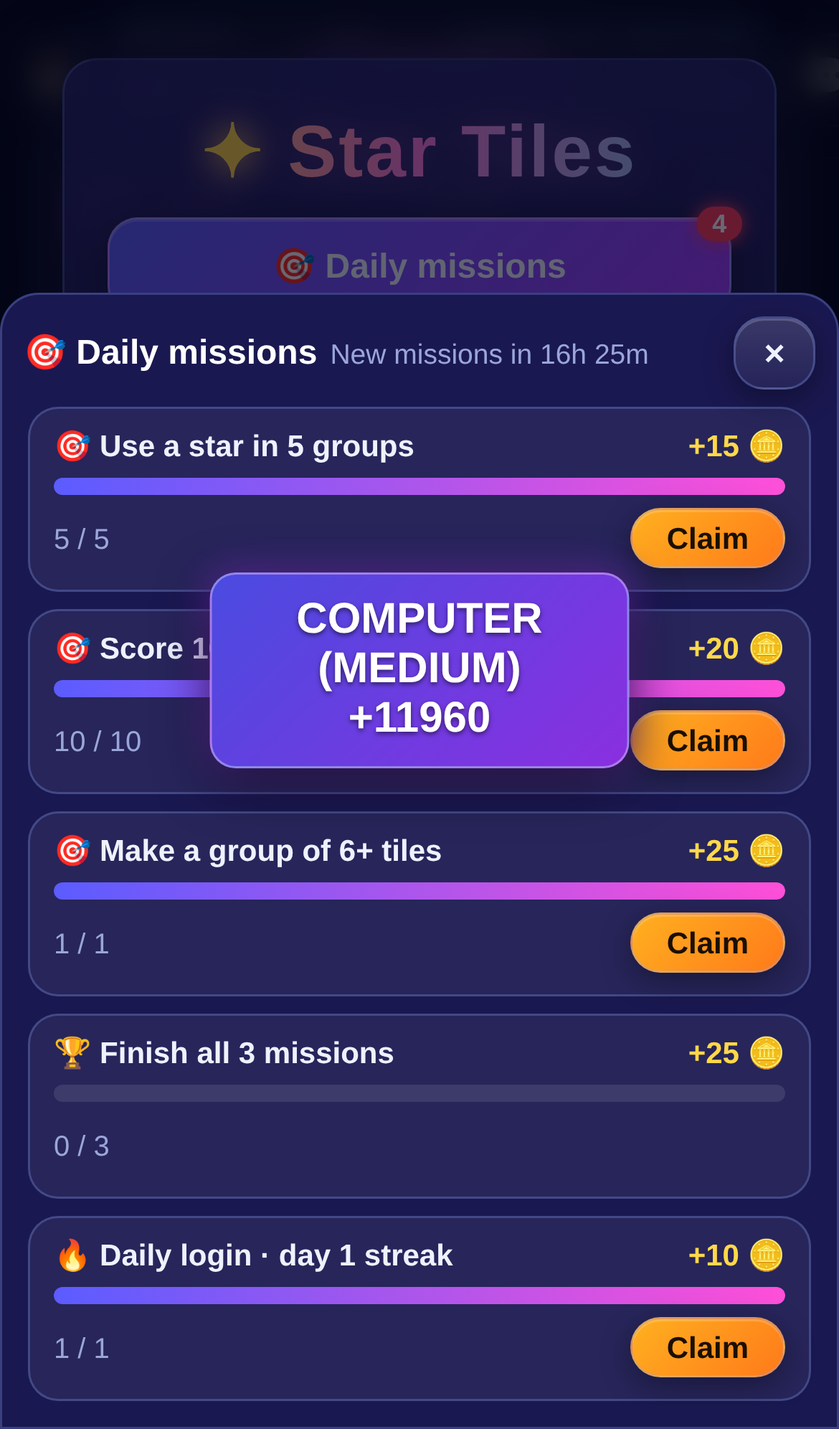
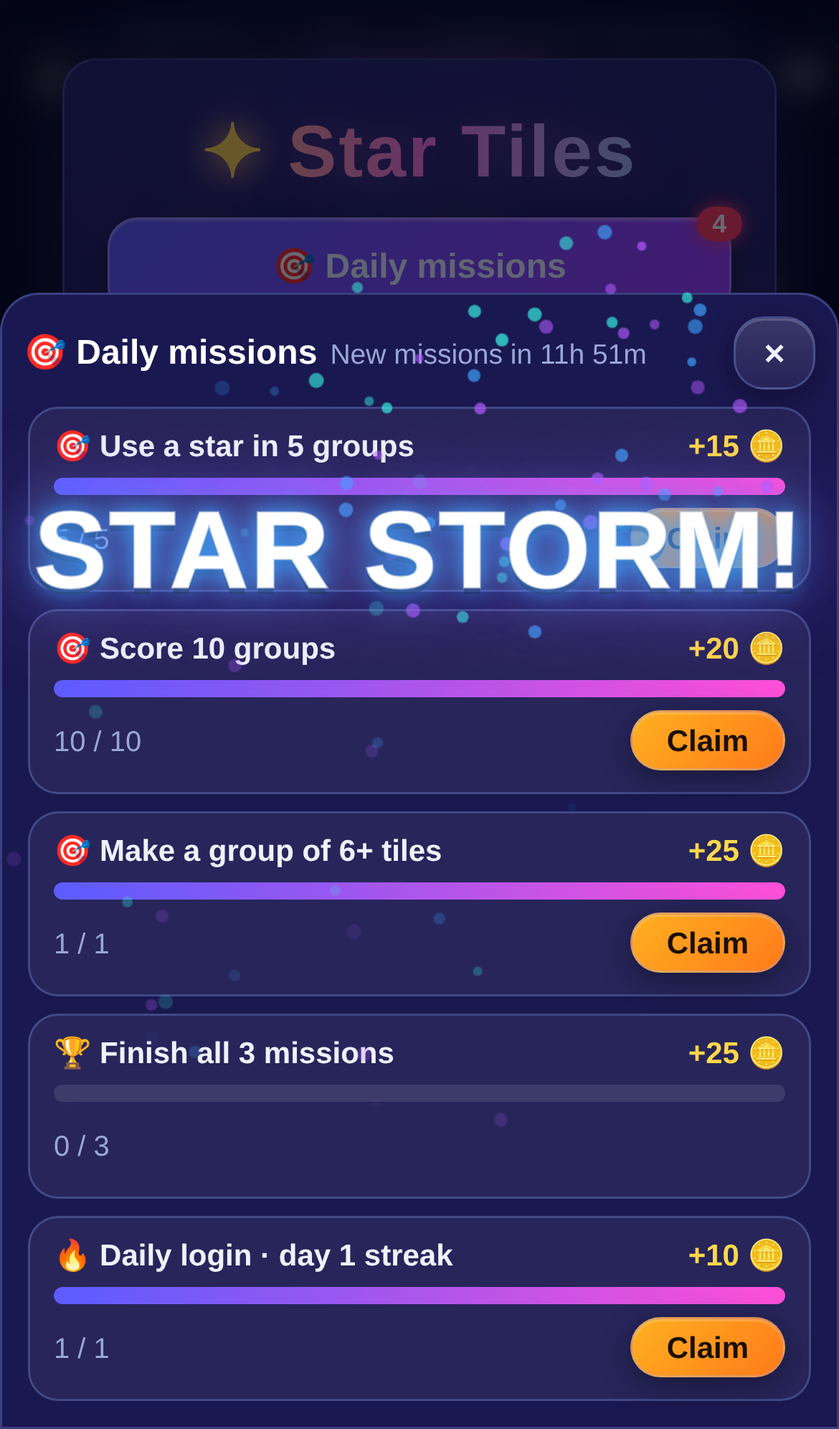
v38: star glow in set colors, step-by-step score show, tiered random celebrations

diff --git a/app.js b/app.js
@@ -1,4 +1,4 @@
-const L=Logic,$=id=>document.getElementById(id);let g,pieces=[],sel=null,boost=false,busy=false,ghost=null,pops=[];
+const L=Logic,$=id=>document.getElementById(id);let tally=null,g,pieces=[],sel=null,boost=false,busy=false,ghost=null,pops=[],popStars=null;
 const toast=document.createElement('div');toast.id='toast';document.body.appendChild(toast);
 function say(t){toast.textContent=t;toast.style.opacity=1;clearTimeout(say.t);say.t=setTimeout(()=>toast.style.opacity=0,1300);}
 // ---- Web Audio synth SFX (no files); unlocked on first tap for iOS ----
@@ -8,7 +8,7 @@ const SFX=(()=>{let ctx=null;const get=()=>{if(!ctx){const C=window.AudioContext
   v.gain.setValueAtTime(0.0001,t);v.gain.exponentialRampToValueAtTime(vol||0.15,t+0.008);v.gain.exponentialRampToValueAtTime(0.0001,t+dur);o.connect(v);v.connect(a.destination);o.start(t);o.stop(t+dur+0.02);}
  function noise(dur,vol,t0,lp){const a=get();if(!a||muted())return;const t=a.currentTime+(t0||0),n=a.sampleRate*dur,buf=a.createBuffer(1,n,a.sampleRate),d=buf.getChannelData(0);for(let i=0;i<n;i++)d[i]=(Math.random()*2-1)*Math.pow(1-i/n,2);
   const s=a.createBufferSource(),f=a.createBiquadFilter(),v=a.createGain();f.type='lowpass';f.frequency.value=lp||1200;v.gain.value=vol||0.4;s.buffer=buf;s.connect(f);f.connect(v);v.connect(a.destination);s.start(t);}
- return {unlock:()=>{const a=get();if(a){const b=a.createBuffer(1,1,22050),s=a.createBufferSource();s.buffer=b;s.connect(a.destination);s.start(0);}},
+ return {tone,noise,unlock:()=>{const a=get();if(a){const b=a.createBuffer(1,1,22050),s=a.createBufferSource();s.buffer=b;s.connect(a.destination);s.start(0);}},
   click:()=>tone(900,0.05,'square',0.06,0,500),rot:()=>tone(650,0.06,'triangle',0.08,0,900),bad:()=>tone(180,0.15,'sawtooth',0.07,0,120),
   pop:i=>{tone(500+i*70,0.09,'sine',0.18,i*0.06,1400+i*90);noise(0.04,0.15,i*0.06,3000);},
   chime:sc=>{const notes=sc>=300?[523,659,784,1047,1319]:sc>=120?[523,659,784,1047]:[659,784,988];notes.forEach((f,i)=>tone(f,0.25,'triangle',0.12,0.12+i*0.08));},
@@ -36,11 +36,11 @@ function firstFree(){const r=g.racks[g.turn];for(let s=0;s<3;s++)if(r[3*s]&&!use
 function tilesAt(s,r,c){return L.pieceTiles(g.racks[g.turn],s,g.orient[g.turn][s],r,c);}
 function render(){setTimeout(fit,0);clearTimeout(render.sv);render.sv=setTimeout(autosave,50);const b=show?show.board:cur(),bd=$('board');bd.innerHTML='';
  const pvTiles=placed().concat(ghost&&ghost.ok?ghost.tiles:[]),pv=L.previewMove(g,pvTiles,boost),willSet=new Set(pv.pops.map(q=>q.r*8+q.c));
- const pe=$('prev');const fx=pv.factor||1;pe.textContent='This move: +'+pv.score+(fx>1?' (⚡x'+fx+')':'');const showPv=human()&&!aim&&(pvTiles.length||boost);pe.className='';const pp=$('potprev');pp.textContent=showPv?'+'+pv.score+(fx>1?' x'+fx:''):'—';pp.className=showPv?(pv.score?'hot':'zero'):'';
+ const pe=$('prev');const fx=pv.factor||1;pe.textContent='This move: +'+pv.score+(fx>1?' (⚡x'+fx+')':'');const showPv=human()&&!aim&&(pvTiles.length||boost);pe.className='';const pp=$('potprev');pp.textContent=showPv?'+'+pv.score+(fx>1?' x'+fx:''):'—';pp.className=showPv?(pv.score?'hot':'zero'):'';if(tally){pp.textContent=tally.txt;pp.className='hot tally';}
  const aimSet=new Set(aim&&aim.r!=null?L.blastCells(aim.type,aim.r,aim.c).map(([y,x])=>y*8+x):[]),fxSet=new Set(blastFx.map(([y,x])=>y*8+x));
  const gk=ghost?new Set(ghost.tiles.map(t=>t.r*8+t.c)):new Set();
  for(let r=0;r<8;r++)for(let c=0;c<8;c++){const d=document.createElement('div'),m=L.mult(r,c);d.className='cell'+(m>1?' m'+m:'');d.dataset.r=r;d.dataset.c=c;const t=b[r][c];
-  if(t){const e=document.createElement('div');if(t.star){e.className='tile star '+(t.fresh?'fresh':t.owner===0?'mine':'theirs');e.innerHTML='<span>⭐</span>'+(t.mult>1&&!t.fresh?'<em>x'+t.mult+'</em>':'');}
+  if(t){const e=document.createElement('div');if(t.star){e.className='tile star '+(t.fresh?'fresh':t.owner===0?'mine':'theirs');{const sc=starGlowAt(r,c,pv,showPv);if(sc)glowStar(e,sc);}e.innerHTML='<span>⭐</span>'+(t.mult>1&&!t.fresh?'<em>x'+t.mult+'</em>':'');}
    else e.className='tile '+t.color+(t.fresh?' fresh':'');d.appendChild(e);d.className='cell';}
   else if(pops.some(q=>q.r===r&&q.c===c)){const q=pops.find(q=>q.r===r&&q.c===c),e=document.createElement('div');e.className='tile pop '+q.color;d.appendChild(e);}
   const pi=pieceAt(r,c);if(pi>=0){const P=pieces[pi];if(P===spinP)d.classList.add('pspin');if(P===shakeP)d.classList.add('pshake');if(P.tiles[1].r===r&&P.tiles[1].c===c&&false){}}
@@ -52,7 +52,7 @@ function render(){setTimeout(fit,0);clearTimeout(render.sv);render.sv=setTimeout
   const disp=L.pieceTiles(rack,s,o,0,0);for(let j=0;j<3;j++){const d=document.createElement('div');d.className='rt';if(!hidden)d.innerHTML=tileHTML(disp[j].color);set.appendChild(d);}
   if(!hidden){const rb=document.createElement('button');rb.className='rot';rb.textContent='↻';rb.dataset.s=s;set.appendChild(rb);}else set.classList.add('empty');
   rk.appendChild(set);}
- $('s0').textContent=g.scores[0];$('s1').textContent=g.scores[1];if(g.pot!==undefined)delete g.pot; // old saves
+ $('s0').textContent=g.scores[0];$('s1').textContent=g.scores[1];if(tally){$('s'+tally.who).textContent=tally.base.toLocaleString();}if(g.pot!==undefined)delete g.pot; // old saves
  $('n0').textContent=NAMES()[0];$('n1').textContent=NAMES()[1];$('n0').className=g.turn===0?'on':'';$('n1').className=g.turn===1?'on':'';
  const mv=Math.min(g.moves[g.turn]+1,10),fin=L.isFinal(g)&&!g.over;$('banner').textContent=g.over?'GAME OVER':(fin?'FINAL MOVE!':'MOVE '+mv+' / 10');$('banner').className=fin?'final':'';setTimeout(updReplay,0);
  const fr=g.power[g.turn];const bf=bx();$('badge').textContent=bf>1?'x'+bf:(fr>0?fr:'50🪙');$('power').className='btn'+(boost?' on':'');const cw=g.mode==='pvp'?g.turn:meIdx();$('coinN').textContent=g.coins[cw];
@@ -112,9 +112,10 @@ $('tgo').onclick=()=>{if(!aim||aim.r==null)return;if(isOn())Online.act({type:'bl
 function boom(res){setTimeout(autosave,0);blastFx=res.cells;pops=res.pops;SFX.boom();render();burst(res.pops);setTimeout(()=>{blastFx=[];pops=[];render();},550);}
 let blastFx=[];
 $('swap').onclick=()=>{const paid=g.swaps[g.turn]<1;if(!L.canSwap(g)){say('Not enough coins');return;}let s=sel;if(s==null||pieces.some(p=>p.s===s))s=firstFree();if(s==null){say('Select a tray piece to swap');return;}if(isOn())Online.act({type:'swap',s});L.swap(g,s);sel=s;say((paid?'Swapped piece (−50 🪙)':'Free swap used')+' — still your turn');render();autosave();};
-$('play').onclick=()=>{const np=pieces.length,p=g.turn;boost=L.single(boost);if(isOn())Online.act({type:'commit',pl:placed(),boost});const res=L.commit(g,placed(),boost);pop(res);markOwner(p);pieces=[];boost=false;
- say(res.score?'+'+res.score+' (cleared '+res.cleared+')':(np?'No match – need 3!':'Passed'));if(g.mode!=='pvp')misTrack({type:'move',score:res.score,cleared:res.cleared,sizes:res.sizes||[],starGroups:res.starGroups||0});next();};
-function pop(res){pops=res.pops||[];pops.forEach((q,i)=>SFX.pop(i));if(res.score)setTimeout(()=>SFX.chime(res.score),pops.length*60);else SFX.pass();burst(pops);setTimeout(()=>{pops=[];render();},650);}
+$('play').onclick=()=>{const np=pieces.length,p=g.turn;boost=L.single(boost);if(isOn())Online.act({type:'commit',pl:placed(),boost});const res=L.commit(g,placed(),boost);markOwner(p);pieces=[];boost=false;
+ if(!res.score)say(np?'No match – need 3!':'Passed');const mev={type:'move',score:res.score,cleared:res.cleared,sizes:res.sizes||[],starGroups:res.starGroups||0};busy=true;render();pop(res,p,()=>{busy=false;if(g.mode!=='pvp')setTimeout(()=>misTrack(mev),res.score>=1000?1400:0);next();});};
+function pop(res,who,done){return scoreShow(res,who==null?g.turn===0&&g.moves[0]>g.moves[1]?0:1-g.turn:who,done);}
+function popOld(res){pops=res.pops||[];popStars=res.stars||[];pops.forEach((q,i)=>SFX.pop(i));if(res.score)setTimeout(()=>SFX.chime(res.score),pops.length*60);else SFX.pass();burst(pops);setTimeout(()=>{pops=[];popStars=null;render();},650);}
 function burst(list){const bd=$('board');setTimeout(()=>list.forEach((q,i)=>{const cell=bd.children[q.r*8+q.c];if(!cell)return;for(let k=0;k<7;k++){const p=document.createElement('i');p.className='prt '+q.color;const ang=k/7*Math.PI*2+Math.random()*.5,d=28+Math.random()*26;p.style.setProperty('--dx',Math.cos(ang)*d+'px');p.style.setProperty('--dy',Math.sin(ang)*d+'px');p.style.animationDelay=(i*0.06)+'s';cell.appendChild(p);setTimeout(()=>p.remove(),900);}}),20);}
 function markOwner(p){g.board.forEach(r=>r.forEach(t=>{if(t&&t.star&&t.owner===undefined)t.owner=p;}));}
 function next(){sel=g.over?null:firstFree();render();if(g.over)return finish();autosave();
@@ -269,8 +270,8 @@ function showMove(mv,done){const run=++showRun;lastMove=mv;const nm=NAMES()[mv.w
  if(ban.length){W(0,()=>bannerSay(nm+' used '+ban.join(' + ')));t+=900;}
  pieces3.forEach((pc,i)=>{W(t,()=>{show.drop=new Set();pc.forEach(q=>{board[q.r][q.c]=q.color==='star'?{star:true,fresh:true,mult:L.mult(q.r,q.c)}:{color:q.color,fresh:true};show.hl.add(q.r*8+q.c);show.drop.add(q.r*8+q.c);});SFX.click();render();});t+=700;});
  if(!pieces3.length){W(t,()=>bannerSay(nm+' passed'));t+=900;}
- W(t+450,()=>{show=null;pop(mv.res);bannerSay(mv.res.score?nm+' +'+mv.res.score+(bs?' ('+bs+')':''):(pieces3.length?nm+': no match':nm+' passed'));render();updReplay();});
- W(t+1300,()=>{done&&done();});}
+ W(t+450,()=>{show=null;pop(mv.res,mv.who,()=>{if(run===showRun)done&&done();});if(!mv.res.score)bannerSay(pieces3.length?nm+': no match':nm+' passed');render();updReplay();});
+}
 function bannerSay(t){say(t);clearTimeout(say.t);say.t=setTimeout(()=>toast.style.opacity=0,1700);}
 function updReplay(){const b=$('replayBtn');if(b)b.style.visibility=lastMove&&!busy&&g&&!g.over?'visible':'hidden';}
 $('replayBtn').onclick=()=>{if(!lastMove||busy)return;busy=true;render();const cur=g.board;showMove(lastMove,()=>{busy=false;render();updReplay();});};
@@ -364,3 +365,96 @@ $('misBtn').onclick=()=>{$('missions').classList.add('show');misRender();};
 $('misClose').onclick=()=>$('missions').classList.remove('show');
 $('missions').addEventListener('click',e=>{if(e.target.id==='missions')$('misClose').click();});
 misBtn();setInterval(misBtn,60000);
+
+// ---- v38: stars in a scoring set glow in that set's color; shared stars show every color (rotating conic ring) ----
+const GLOW={yellow:'#ffd23a',green:'#3ddc84',blue:'#3fa6ff',pink:'#ff5fd2',red:'#ff3b5c',orange:'#ff8a2a',purple:'#b45cff'};
+function starGlowAt(r,c,pv,showPv){const src=pops.length&&popStars?popStars:(!show&&showPv&&pv&&pv.score>0?pv.stars:null);if(!src)return null;const s=src.find(q=>q.r===r&&q.c===c);return s&&s.colors.length?s.colors:null;}
+function glowStar(e,cols){const hx=cols.map(k=>GLOW[k]||'#fff');e.classList.add('sglow');if(hx.length>1)e.classList.add('multi');e.style.setProperty('--g1',hx[0]);
+ const stops=hx.map((h,i)=>h+' '+(i*100/hx.length)+'% '+((i+1)*100/hx.length)+'%').join(',');e.style.setProperty('--ring','conic-gradient(from var(--sa,0deg),'+stops+')');
+ e.style.setProperty('--gsh',hx.map((h,i)=>'0 0 '+(10+i*6)+'px '+(3+i*2)+'px '+h).join(','));}
+
+// ---- v38: score show. Display only: g.scores / res are already final; this just animates them. Tap skips. ----
+const fmt=n=>Math.round(n).toLocaleString();
+function scoreShow(res,who,done){const gd=(res.gd||[]).filter(x=>x.n>=3);
+ if(!res.score||!gd.length){popOld(res);setTimeout(()=>done&&done(),res.score?650:250);return;}
+ if(tally&&tally.end)tally.end(true);
+ const final=g.scores[who]!=null?g.scores[who]:0,base=final-res.score;
+ const nTiles=gd.reduce((s,x)=>s+x.n,0),nM=gd.reduce((s,x)=>s+x.mults.length,0);
+ const step=Math.max(45,Math.min(130,1500/nTiles)),mStep=Math.max(140,Math.min(320,900/Math.max(1,nM)));
+ const T=[];let t=0,run=0;const at=(ms,f)=>T.push(setTimeout(f,ms));
+ pops=res.pops.slice();popStars=res.stars||[];const t0=performance.now();pops.forEach(q=>q.at=1e9);
+ tally={who,base,txt:'+0',end:null,t0};render();
+ let sum=0;
+ gd.forEach((G,gi)=>{let gs=0;const parts=[...G.cells.map(c=>({...c})),...Array(G.stars).fill(null)];
+  parts.forEach((c,k)=>{at(t,()=>{gs+=20;tally.txt=(sum?fmt(sum)+' + ':'')+fmt(gs);if(c){const q=pops.find(q=>q.r===c.r&&q.c===c.c);if(q){q.at=performance.now()-t0;burst1(c,run);}}SFX.pop(run++);render();});t+=step;});
+  let cur=G.n*20,txt=fmt(cur);G.mults.forEach(m=>{at(t,()=>{cur*=m;txt+=' ×'+m;tally.txt=(sum?fmt(sum)+' + ':'')+txt;SFX.mult(m,run++);shake(m>2?6:3);render();});t+=mStep;});
+  if(G.mults.length){at(t,()=>{tally.txt=(sum?fmt(sum)+' + ':'')+txt+' = '+fmt(G.s);render();});t+=mStep;}
+  at(t,()=>{sum+=G.s;tally.txt=fmt(sum);render();});t+=120;});
+ const groupSum=gd.reduce((s,x)=>s+x.s,0),fx=res.factor||1,combo=res.score/(groupSum*fx);
+ if(combo>1.0001){at(t,()=>{tally.txt=fmt(groupSum)+' ×'+Math.round(combo)+' combo';SFX.mult(2,run++);render();});t+=380;}
+ if(fx>1){at(t,()=>{tally.txt=fmt(groupSum*(combo>1?combo:1))+' ⚡×'+fx+' = '+fmt(res.score);SFX.mult(fx,run++);shake(5);render();});t+=520;}
+ at(t,()=>{tally.txt='+'+fmt(res.score);SFX.chime(res.score);render();});t+=250;
+ // count the player's total up
+ const cu=Math.min(700,250+res.score/40);at(t,()=>{const s0=performance.now(),b0=base;(function f(){if(!tally)return;const k=Math.min(1,(performance.now()-s0)/cu);tally.base=Math.round(b0+res.score*k);render();if(k<1)T.push(requestAnimationFrame(f));})();});t+=cu+80;
+ at(t,()=>{celebrate(res.score);});
+ const fin=(skip)=>{T.forEach(x=>{clearTimeout(x);cancelAnimationFrame(x);});removeEventListener('pointerdown',onTap,true);if(!tally)return;tally=null;pops=[];popStars=null;render();if(skip&&res.score>=1000)celebrate(res.score);done&&done();};
+ const onTap=e=>{if(e.target.closest&&e.target.closest('#overlay.show,#chat.show,#missions.show'))return;fin(true);};
+ setTimeout(()=>addEventListener('pointerdown',onTap,true),150);tally.end=fin;at(t+250,()=>fin(false));
+ return t+250;}
+function burst1(c,i){const cell=$('board').children[c.r*8+c.c];if(!cell)return;const R=cell.getBoundingClientRect(),host=document.createElement('div');host.className='fxh';host.style.left=(R.left+R.width/2)+'px';host.style.top=(R.top+R.height/2)+'px';document.body.appendChild(host);setTimeout(()=>host.remove(),850);const n=matchMedia('(prefers-reduced-motion: reduce)').matches?3:9;
+ for(let k=0;k<n;k++){const p=document.createElement('i');p.className='prt '+c.color;const ang=k/n*Math.PI*2+Math.random()*.6,d=26+Math.random()*34;p.style.setProperty('--dx',Math.cos(ang)*d+'px');p.style.setProperty('--dy',Math.sin(ang)*d+'px');host.appendChild(p);}}
+function shake(px){const b=$('board');b.style.setProperty('--sh',px+'px');b.classList.remove('shk');void b.offsetWidth;b.classList.add('shk');}
+// render hook: popping tiles get a per-tile delay so each pops on its own beat
+(function(){const R=render;render=function(){R.apply(this,arguments);if(!pops.length)return;const now=tally?performance.now():0;
+ document.querySelectorAll('#board .tile.pop').forEach(e=>{const cell=e.parentElement,q=pops.find(q=>q.r==cell.dataset.r&&q.c==cell.dataset.c);if(!q)return;if(q.at>=1e9){e.style.animation='none';}else e.style.animationDelay=(tally?-((performance.now()-tally.t0)-q.at)/1000:0)+'s';});};})();
+// sounds (respect mute via tone())
+SFX.mult=(m,i)=>{const b=m>=3?392:330;[0,1,2].forEach(k=>SFX.tone&&SFX.tone(b*Math.pow(1.26,k+(i%6)*.25),0.12,'square',0.05,k*0.05));};
+// ---- v38: celebrations. 6 tiers, random callout + random effect/colors/sound, never the same effect twice in a row ----
+const TIERS=[
+ {min:20000,k:6,words:['BIG BANG!','UNIVERSE BREAKER!','GODLIKE!'],ms:5200,n:420,full:true,slow:true,gold:true},
+ {min:15000,k:5,words:['COSMIC CRUSH!','OUT OF THIS WORLD!'],ms:4200,n:320,full:true},
+ {min:10000,k:4,words:['UNSTOPPABLE!','GALAXY BRAIN!','MEGA!'],ms:3200,n:260,full:true},
+ {min:5000,k:3,words:['EPIC!','LEGENDARY!','STAR STORM!'],ms:2400,n:190,flash:true},
+ {min:2500,k:2,words:['Amazing!','Supernova!','On Fire!','Cosmic!'],ms:1700,n:110},
+ {min:1000,k:1,words:['Nice!','Sweet!','Boom!','Stellar!'],ms:1200,n:55}];
+const FX=['fireworks','shooting','confetti','rings','meteors'];
+const PALS=[['#ff4fd8','#ffd84a','#39ffec'],['#ff3b5c','#ff8a2a','#ffd23a'],['#3fa6ff','#b45cff','#39ffec'],['#3ddc84','#ffd23a','#ffffff'],['#ff5fd2','#7d6bff','#3fa6ff'],['#ffd700','#fff3b0','#ffb020']];
+let lastFx=null,lastWord={},celebRun=0;
+const pickR=(arr,avoid)=>{const c=arr.length>1?arr.filter(x=>x!==avoid):arr;return c[Math.floor(Math.random()*c.length)];};
+function celebrate(score){const T=TIERS.find(t=>score>=t.min);if(!T)return null;const run=++celebRun;
+ const word=pickR(T.words,lastWord[T.k]);lastWord[T.k]=word;const fx=pickR(FX,lastFx);lastFx=fx;
+ const pal=T.gold?PALS[5]:pickR(PALS.slice(0,5));const reduce=matchMedia('(prefers-reduced-motion: reduce)').matches;
+ let L=$('celeb');if(!L){L=document.createElement('div');L.id='celeb';L.innerHTML='<canvas></canvas><div class="cw"></div>';document.body.appendChild(L);}
+ const cv=L.querySelector('canvas'),cw=L.querySelector('.cw');L.className='show t'+T.k+(T.full?' full':'')+(T.gold?' gold':'');
+ cw.textContent=word;cw.style.setProperty('--c1',pal[0]);cw.style.setProperty('--c2',pal[1]);cw.style.animation='none';void cw.offsetWidth;cw.style.animation='';
+ if(T.flash||T.full){L.classList.add('flash');setTimeout(()=>L.classList.remove('flash'),350);}
+ celebSound(T.k);
+ const dpr=Math.min(2,devicePixelRatio||1),W=innerWidth,H=innerHeight;cv.width=W*dpr;cv.height=H*dpr;const x=cv.getContext('2d');x.setTransform(dpr,0,0,dpr,0,0);
+ const P=[],N=reduce?Math.round(T.n/4):T.n,rnd=(a,b)=>a+Math.random()*(b-a),col=()=>pal[Math.floor(Math.random()*pal.length)];
+ const add=o=>{if(P.length<500)P.push(Object.assign({life:1,age:0,g:0,dr:0.98,sz:3,kind:'dot'},o));};
+ const style=T.slow?'galaxy':fx,cx=W/2,cy=H*0.42;
+ function spawn(){
+  if(style==='fireworks'){const bx=rnd(W*.15,W*.85),by=rnd(H*.15,H*.5),m=Math.round(N/4);for(let i=0;i<m;i++){const a=Math.random()*6.283,s=rnd(1.5,5.5);add({x:bx,y:by,vx:Math.cos(a)*s,vy:Math.sin(a)*s,g:0.06,c:col(),life:rnd(50,90),sz:rnd(2,3.5)});}}
+  else if(style==='shooting'){for(let i=0;i<Math.max(3,N/18);i++)add({x:rnd(-W*.3,W*.7),y:rnd(-40,H*.3),vx:rnd(7,12),vy:rnd(3,6),c:col(),life:rnd(45,70),kind:'streak',sz:2.5,dr:1});}
+  else if(style==='confetti'){for(let i=0;i<N/3;i++)add({x:rnd(0,W),y:rnd(-60,-10),vx:rnd(-1.5,1.5),vy:rnd(2,5),g:0.04,c:col(),life:rnd(90,140),kind:'rect',sz:rnd(5,9),rot:rnd(0,6),vr:rnd(-.25,.25),dr:0.995});}
+  else if(style==='rings'){for(let i=0;i<3;i++)add({x:cx+rnd(-40,40),y:cy+rnd(-30,30),vx:0,vy:0,c:col(),life:60+i*10,kind:'ring',sz:4,grow:rnd(4,7)});const m=N/3;for(let i=0;i<m;i++){const a=i/m*6.283,s=rnd(3,6);add({x:cx,y:cy,vx:Math.cos(a)*s,vy:Math.sin(a)*s,c:col(),life:rnd(40,70),kind:'star',sz:rnd(3,5)});}}
+  else if(style==='meteors'){for(let i=0;i<Math.max(2,N/30);i++)add({x:rnd(W*.2,W*1.2),y:rnd(-80,-10),vx:rnd(-7,-4),vy:rnd(6,10),c:col(),life:rnd(60,90),kind:'meteor',sz:rnd(4,7),dr:1});}
+  else if(style==='galaxy'){const m=N/3;for(let i=0;i<m;i++){const a=Math.random()*6.283,r=rnd(2,20),s=rnd(2,7);add({x:cx+Math.cos(a)*r,y:cy+Math.sin(a)*r,vx:Math.cos(a)*s,vy:Math.sin(a)*s,spin:0.035,c:col(),life:rnd(110,180),kind:Math.random()<.3?'star':'dot',sz:rnd(2,4.5),dr:0.985});}}}
+ const waves=T.full?(T.slow?6:T.k===5?5:4):T.k>=3?3:T.k===2?2:1,gap=T.ms/(waves+1);for(let i=0;i<waves;i++)setTimeout(()=>run===celebRun&&spawn(),i*gap);
+ const ts=T.slow?0.45:1,start=performance.now();
+ (function frame(){if(run!==celebRun)return;const el=performance.now()-start;x.clearRect(0,0,W,H);x.globalCompositeOperation='lighter';
+  for(let i=P.length-1;i>=0;i--){const p=P[i];p.age+=ts;if(p.age>p.life){P.splice(i,1);continue;}
+   if(p.spin){const dx=p.x-cx,dy=p.y-cy;p.vx+=-dy*p.spin*0.05*ts;p.vy+=dx*p.spin*0.05*ts;}
+   p.vy+=p.g*ts;p.vx*=Math.pow(p.dr,ts);p.vy*=Math.pow(p.dr,ts);p.x+=p.vx*ts;p.y+=p.vy*ts;const al=Math.max(0,1-p.age/p.life);x.globalAlpha=al;x.fillStyle=x.strokeStyle=p.c;
+   if(p.kind==='dot'){x.beginPath();x.arc(p.x,p.y,p.sz,0,6.283);x.fill();}
+   else if(p.kind==='streak'||p.kind==='meteor'){x.lineWidth=p.sz;x.lineCap='round';x.beginPath();x.moveTo(p.x,p.y);x.lineTo(p.x-p.vx*(p.kind==='meteor'?7:5),p.y-p.vy*(p.kind==='meteor'?7:5));x.stroke();if(p.kind==='meteor'){x.beginPath();x.arc(p.x,p.y,p.sz*.9,0,6.283);x.fillStyle='#fff';x.fill();}}
+   else if(p.kind==='rect'){p.rot+=p.vr*ts;x.save();x.translate(p.x,p.y);x.rotate(p.rot);x.fillRect(-p.sz/2,-p.sz/4,p.sz,p.sz/2);x.restore();}
+   else if(p.kind==='ring'){p.sz+=p.grow*ts;x.lineWidth=3;x.beginPath();x.arc(p.x,p.y,p.sz,0,6.283);x.stroke();}
+   else if(p.kind==='star'){x.save();x.translate(p.x,p.y);x.beginPath();for(let k=0;k<10;k++){const r=k%2?p.sz*.45:p.sz,a=k*Math.PI/5-Math.PI/2;x.lineTo(Math.cos(a)*r,Math.sin(a)*r);}x.closePath();x.fill();x.restore();}}
+  x.globalAlpha=1;if(el<T.ms*(T.slow?1.3:1)||P.length)requestAnimationFrame(frame);else{L.className='';x.clearRect(0,0,W,H);}})();
+ setTimeout(()=>{if(run===celebRun)L.classList.add('out');},T.ms*(T.slow?1.2:0.85));
+ return {word,fx:style,tier:T.k};}
+function celebSound(k){if(typeof profile!=='undefined'&&profile.muted)return;const roots=[262,294,330,349,392],r=roots[Math.floor(Math.random()*roots.length)]*(Math.random()<.5?1:2),wave=['triangle','sine','square'][Math.floor(Math.random()*3)];
+ const n=3+k*2;for(let i=0;i<n;i++){const st=[0,4,7,12,16,19,24][i%7]+12*Math.floor(i/7);SFX.tone(r*Math.pow(2,st/12),0.18+k*0.02,wave,0.06+k*0.01,i*(0.07-k*0.004),r*Math.pow(2,st/12)*1.01);}
+ if(k>=3)SFX.tone(r/2,0.6+k*0.15,'sawtooth',0.04,0,r*4); // rising sweep
+ if(k>=4)SFX.noise(0.5+k*0.1,0.25,0,1800);if(k>=6)setTimeout(()=>SFX.boom(),400);}

diff --git a/index.html b/index.html
@@ -1,7 +1,7 @@
 <!DOCTYPE html><html><head><meta charset="utf-8"><meta name="viewport" content="width=device-width,initial-scale=1,viewport-fit=cover,user-scalable=no">
-<title>Star Tiles</title><link rel="manifest" href="manifest.json"><link rel="apple-touch-icon" href="icon-180.png?v=37"><link rel="apple-touch-startup-image" media="(device-width: 375px) and (device-height: 667px) and (-webkit-device-pixel-ratio: 2)" href="splash-750x1334.png"><link rel="apple-touch-startup-image" media="(device-width: 390px) and (device-height: 844px) and (-webkit-device-pixel-ratio: 3)" href="splash-1170x2532.png"><link rel="apple-touch-startup-image" media="(device-width: 393px) and (device-height: 852px) and (-webkit-device-pixel-ratio: 3)" href="splash-1179x2556.png"><link rel="apple-touch-startup-image" media="(device-width: 428px) and (device-height: 926px) and (-webkit-device-pixel-ratio: 3)" href="splash-1284x2778.png"><link rel="apple-touch-startup-image" media="(device-width: 430px) and (device-height: 932px) and (-webkit-device-pixel-ratio: 3)" href="splash-1290x2796.png">
+<title>Star Tiles</title><link rel="manifest" href="manifest.json"><link rel="apple-touch-icon" href="icon-180.png?v=38"><link rel="apple-touch-startup-image" media="(device-width: 375px) and (device-height: 667px) and (-webkit-device-pixel-ratio: 2)" href="splash-750x1334.png"><link rel="apple-touch-startup-image" media="(device-width: 390px) and (device-height: 844px) and (-webkit-device-pixel-ratio: 3)" href="splash-1170x2532.png"><link rel="apple-touch-startup-image" media="(device-width: 393px) and (device-height: 852px) and (-webkit-device-pixel-ratio: 3)" href="splash-1179x2556.png"><link rel="apple-touch-startup-image" media="(device-width: 428px) and (device-height: 926px) and (-webkit-device-pixel-ratio: 3)" href="splash-1284x2778.png"><link rel="apple-touch-startup-image" media="(device-width: 430px) and (device-height: 932px) and (-webkit-device-pixel-ratio: 3)" href="splash-1290x2796.png">
 <meta name="apple-mobile-web-app-capable" content="yes"><meta name="mobile-web-app-capable" content="yes"><meta name="apple-mobile-web-app-status-bar-style" content="black"><meta name="theme-color" content="#0b1033">
-<link rel="stylesheet" href="style.css?v=37"></head><body>
+<link rel="stylesheet" href="style.css?v=38"></head><body>
 <div id="app">
 <header><button class="btn sq" id="menuBtn" aria-label="Menu">🏠</button>
 <div id="hud"><div class="names"><span id="n0" class="p0">DHAVAL P</span><span class="vs">·VS·</span><span id="n1">COMPUTER</span></div>
@@ -29,8 +29,8 @@
 <div class="diff" id="diff"><button data-d="easy">EASY</button><button data-d="medium">MEDIUM</button><button data-d="hard">HARD</button><button data-d="expert">EXPERT</button></div>
 <button class="btn big" id="vsAI">Play vs COMPUTER</button><button class="btn big" id="vsP">Pass &amp; Play (2 players)</button>
 <div class="online"><button class="btn big" id="hostBtn">🌐 Host online game</button>
-<div class="joinrow"><input id="joinCode" maxlength="14" placeholder="ROOM CODE" autocapitalize="characters" autocomplete="off"><button class="btn" id="joinBtn">Join</button></div></div><div id="ver">v37</div></div></div>
-</div><script src="logic.js?v=37"></script><script src="missions.js?v=37"></script><script src="mq.js?v=37"></script><script src="online.js?v=37"></script><script src="app.js?v=37"></script>
+<div class="joinrow"><input id="joinCode" maxlength="14" placeholder="ROOM CODE" autocapitalize="characters" autocomplete="off"><button class="btn" id="joinBtn">Join</button></div></div><div id="ver">v38</div></div></div>
+</div><script src="logic.js?v=38"></script><script src="missions.js?v=38"></script><script src="mq.js?v=38"></script><script src="online.js?v=38"></script><script src="app.js?v=38"></script>
 <script>
 if('serviceWorker'in navigator){let reloaded=false;const had=!!navigator.serviceWorker.controller;
  navigator.serviceWorker.addEventListener('controllerchange',()=>{if(reloaded||!had)return;try{if(document.getElementById('onl').classList.contains('show')||(typeof g!=='undefined'&&g&&g.mode==='online'))return;}catch(e){} // v24: never reload mid-connect / online game

diff --git a/style.css b/style.css
@@ -305,3 +305,25 @@ footer{background:rgba(8,10,36,.75)!important;border-top:1px solid var(--line);b
 .mis .mf{display:flex;justify-content:space-between;align-items:center;min-height:30px}.mis .mf small{color:var(--dim)}.mis .ok{color:#7dffb0!important;font-weight:800}
 .mclaim{padding:5px 16px!important;font-size:14px!important;background:linear-gradient(135deg,#ffb020,#ff7a1a)!important;color:#1a0f00!important}
 .miscard{background:#1a1850!important;opacity:1!important;backdrop-filter:none!important}#missions{isolation:isolate}
+
+/* v38 star glow in set colors */
+.tile.star.sglow{box-shadow:var(--gsh),inset 0 0 10px var(--g1)!important;border-color:var(--g1)!important;animation:sgp .7s ease-in-out infinite alternate}
+.tile.star.sglow span{filter:drop-shadow(0 0 6px var(--g1)) drop-shadow(0 0 2px #fff)}
+.tile.star.sglow.multi{border-color:transparent!important}
+.tile.star.sglow.multi::after{content:"";position:absolute;inset:-6px;border-radius:inherit;padding:5px;background:var(--ring);filter:drop-shadow(0 0 6px rgba(255,255,255,.5));-webkit-mask:linear-gradient(#000 0 0) content-box,linear-gradient(#000 0 0);-webkit-mask-composite:xor;mask-composite:exclude;animation:sgr 1.6s linear infinite;pointer-events:none}
+@property --sa{syntax:'<angle>';inherits:false;initial-value:0deg}@keyframes sgr{to{--sa:360deg}}@keyframes sgp{from{filter:brightness(1)}to{filter:brightness(1.35)}}
+/* v38 score show + celebrations */
+.fxh{position:fixed;width:0;height:0;z-index:850;pointer-events:none}.fxh .prt{animation:prt .75s ease-out forwards}
+#potprev.tally{font-variant-numeric:tabular-nums;white-space:nowrap;font-size:clamp(13px,4.6vw,22px)!important;letter-spacing:-.3px;max-width:62vw;overflow:hidden;text-overflow:clip}
+#board.shk{animation:shk .28s ease-out}@keyframes shk{20%{transform:translate(var(--sh),calc(var(--sh)*-.5))}40%{transform:translate(calc(var(--sh)*-1),calc(var(--sh)*.4))}60%{transform:translate(calc(var(--sh)*.6),0)}80%{transform:translate(calc(var(--sh)*-.3),0)}}
+#celeb{position:fixed;inset:0;z-index:1150;pointer-events:none;display:none}#celeb.show{display:block}
+#celeb canvas{position:absolute;inset:0;width:100%;height:100%}
+#celeb .cw{position:absolute;left:0;right:0;top:34%;text-align:center;font-weight:900;color:#fff;font-size:clamp(34px,11vw,56px);letter-spacing:1px;
+ text-shadow:0 0 10px var(--c1),0 0 26px var(--c1),0 0 46px var(--c2),0 3px 0 #0008;animation:cwin .5s cubic-bezier(.2,1.7,.4,1) both;-webkit-text-stroke:1px rgba(255,255,255,.5)}
+#celeb.t1 .cw{font-size:clamp(28px,9vw,44px)}#celeb.t3 .cw{font-size:clamp(40px,13vw,66px)}
+#celeb.full{background:radial-gradient(circle at 50% 42%,rgba(40,20,110,.75),rgba(3,4,20,.92) 70%)}#celeb.full .cw{top:38%;font-size:clamp(42px,14vw,74px)}
+#celeb.gold .cw{background:linear-gradient(180deg,#fff7c2,#ffd700 45%,#b8860b);-webkit-background-clip:text;background-clip:text;color:transparent;text-shadow:none;filter:drop-shadow(0 0 14px #ffd700) drop-shadow(0 0 40px #ff9d00);animation:cwin 1.4s cubic-bezier(.2,1.4,.4,1) both}
+#celeb.flash::after{content:"";position:absolute;inset:0;background:#fff;animation:cfl .35s ease-out forwards}
+#celeb.out{opacity:0;transition:opacity .45s}
+@keyframes cwin{0%{transform:scale(.2) rotate(-8deg);opacity:0}60%{transform:scale(1.15) rotate(2deg);opacity:1}100%{transform:scale(1)}}@keyframes cfl{from{opacity:.85}to{opacity:0}}
+@media (prefers-reduced-motion:reduce){#board.shk{animation:none}}

diff --git a/logic.js b/logic.js
@@ -49,15 +49,15 @@ function evaluate(b,pl,boost){const nb=b.map(row=>row.map(t=>t&&{...t}));let sco
  // v28: every colored tile on the board is a seed, so ANY connected group of 3+ (stars wild, chaining through stars)
  // scores, even when the new tile only touches it through other stars. Star-only groups (no color) never score.
  for(let y=0;y<N;y++)for(let x=0;x<N;x++)if(nb[y][x]&&!nb[y][x].star)seeds.push({r:y,c:x});
- let cleared=0,groups=0,starGroups=0;const sizes=[];const done=new Set(),pops=[];
+ let cleared=0,groups=0,starGroups=0;const starCol={},gd=[];const sizes=[];const done=new Set(),pops=[];
  for(const p of seeds){if(nb[p.r][p.c].star||done.has(p.r*N+p.c))continue;const g=group(nb,p.r,p.c);g.forEach(([y,x])=>{if(!nb[y][x].star)done.add(y*N+x)});
   if(g.length>=3){const ns=g.filter(([y,x])=>nb[y][x].star).length,cnt=g.length-ns+Math.min(ns,2);let m=1;g.forEach(([y,x])=>{m*=mult(y,x);});let s=RV===1?20*cnt*m*(cnt>=5?2:1):20*g.length*m; // v36 rules (RV 2): every tile incl. all stars, no 5+ bonus // every multiplier square in the group multiplies; 5+ tiles x2; at most 2 stars count toward points
-   score+=s;groups++;sizes.push(g.length);if(ns>0)starGroups++;
+   score+=s;groups++;sizes.push(g.length);if(ns>0)starGroups++;gd.push({color:nb[p.r][p.c].color,n:g.length,stars:ns,mults:g.map(([y,x])=>mult(y,x)).filter(k=>k>1),cells:g.filter(([y,x])=>!nb[y][x].star).map(([y,x])=>({r:y,c:x,color:nb[y][x].color})),s});{const col=nb[p.r][p.c].color;g.forEach(([y,x])=>{if(nb[y][x].star){const k=y*N+x;(starCol[k]=starCol[k]||[]).includes(col)||starCol[k].push(col);}});}
    g.forEach(([y,x])=>{if(!nb[y][x].star){cleared++;pops.push({r:y,c:x,color:nb[y][x].color});}});}}
  for(const p of pops)nb[p.r][p.c]=null; // scored colored tiles are cleared; stars stay
  nb.forEach(r=>r.forEach(t=>t&&delete t.fresh));if(RV===1&&groups>1)score*=groups; // v36: no combo multiplier (old games RV 1 keep it) // combo: N groups in one move multiply the total by N
  const B=norm(boost);score*=Math.pow(2,B.d)*Math.pow(3,B.t); // stacked Doubles x2^d and Triples x3^t
- return {score,board:nb,cleared,pops,groups,sizes,starGroups,doubles:B.d,triples:B.t,factor:Math.pow(2,B.d)*Math.pow(3,B.t)};}
+ return {score,board:nb,cleared,pops,groups,sizes,starGroups,gd,stars:Object.keys(starCol).map(k=>({r:Math.floor(k/N),c:k%N,colors:starCol[k]})),doubles:B.d,triples:B.t,factor:Math.pow(2,B.d)*Math.pow(3,B.t)};}
 // boost formats: true / number (old saves & online: count of Doubles) or {d,t}
 function norm(b){if(!b)return {d:0,t:0};if(b===true)return {d:1,t:0};if(typeof b==='number')return {d:b|0,t:0};return {d:b.d|0,t:b.t|0};}
 function capB(g,b){const B=norm(b),ch=charges(g),d=Math.min(B.d,ch),t=Math.min(B.t,ch-d);return {d,t};}

diff --git a/test.js b/test.js
@@ -185,3 +185,8 @@ console.log('ui scripts parse ok');
  // progress not over-counted for not-done
  const u=M.ensure(null,new Date(2026,9,13));const done=M.track(u,{type:'move',score:10,cleared:1,sizes:[3],starGroups:0});a.ok(Array.isArray(done));
  console.log('v37 ok');}
+// v38: evaluate reports per-star set colors (shared star -> both colors); scoring unchanged
+{const a=require('assert');const G=L.newGame('pvp');G.rv=2;G.board=Array.from({length:8},()=>Array(8).fill(null));
+ G.board[3][3]={star:true};G.board[6][6]={star:true};G.board[3][1]={color:'red'};G.board[3][5]={color:'yellow'};G.board[3][6]={color:'yellow'};
+ const pv=L.previewMove(G,[{r:3,c:2,color:'red'},{r:2,c:2,color:'red'},{r:3,c:4,color:'yellow'}],false);
+ const s=pv.stars.find(q=>q.r===3&&q.c===3);a.ok(s);a.deepStrictEqual(s.colors.slice().sort(),['red','yellow']);a.ok(!pv.stars.some(q=>q.r===6));a.strictEqual(pv.score,4*20*2+4*20);console.log('v38 ok');}

diff --git a/sw.js b/sw.js
@@ -1,4 +1,4 @@
-const V='v37',C='star-tiles-'+V,F=['./','index.html','style.css?v=37','app.js?v=37','logic.js?v=37','missions.js?v=37','mq.js?v=37','online.js?v=37','manifest.json','icon-180.png','icon-192.png','icon-512.png'];
+const V='v38',C='star-tiles-'+V,F=['./','index.html','style.css?v=38','app.js?v=38','logic.js?v=38','missions.js?v=38','mq.js?v=38','online.js?v=38','manifest.json','icon-180.png','icon-192.png','icon-512.png'];
 self.addEventListener('install',e=>{self.skipWaiting();e.waitUntil(caches.open(C).then(c=>c.addAll(F)).catch(()=>{}));});
 self.addEventListener('activate',e=>e.waitUntil(caches.keys().then(k=>Promise.all(k.filter(x=>x!==C).map(x=>caches.delete(x)))).then(()=>self.clients.claim())));
 // network-first for pages/code; cache only as offline fallback
